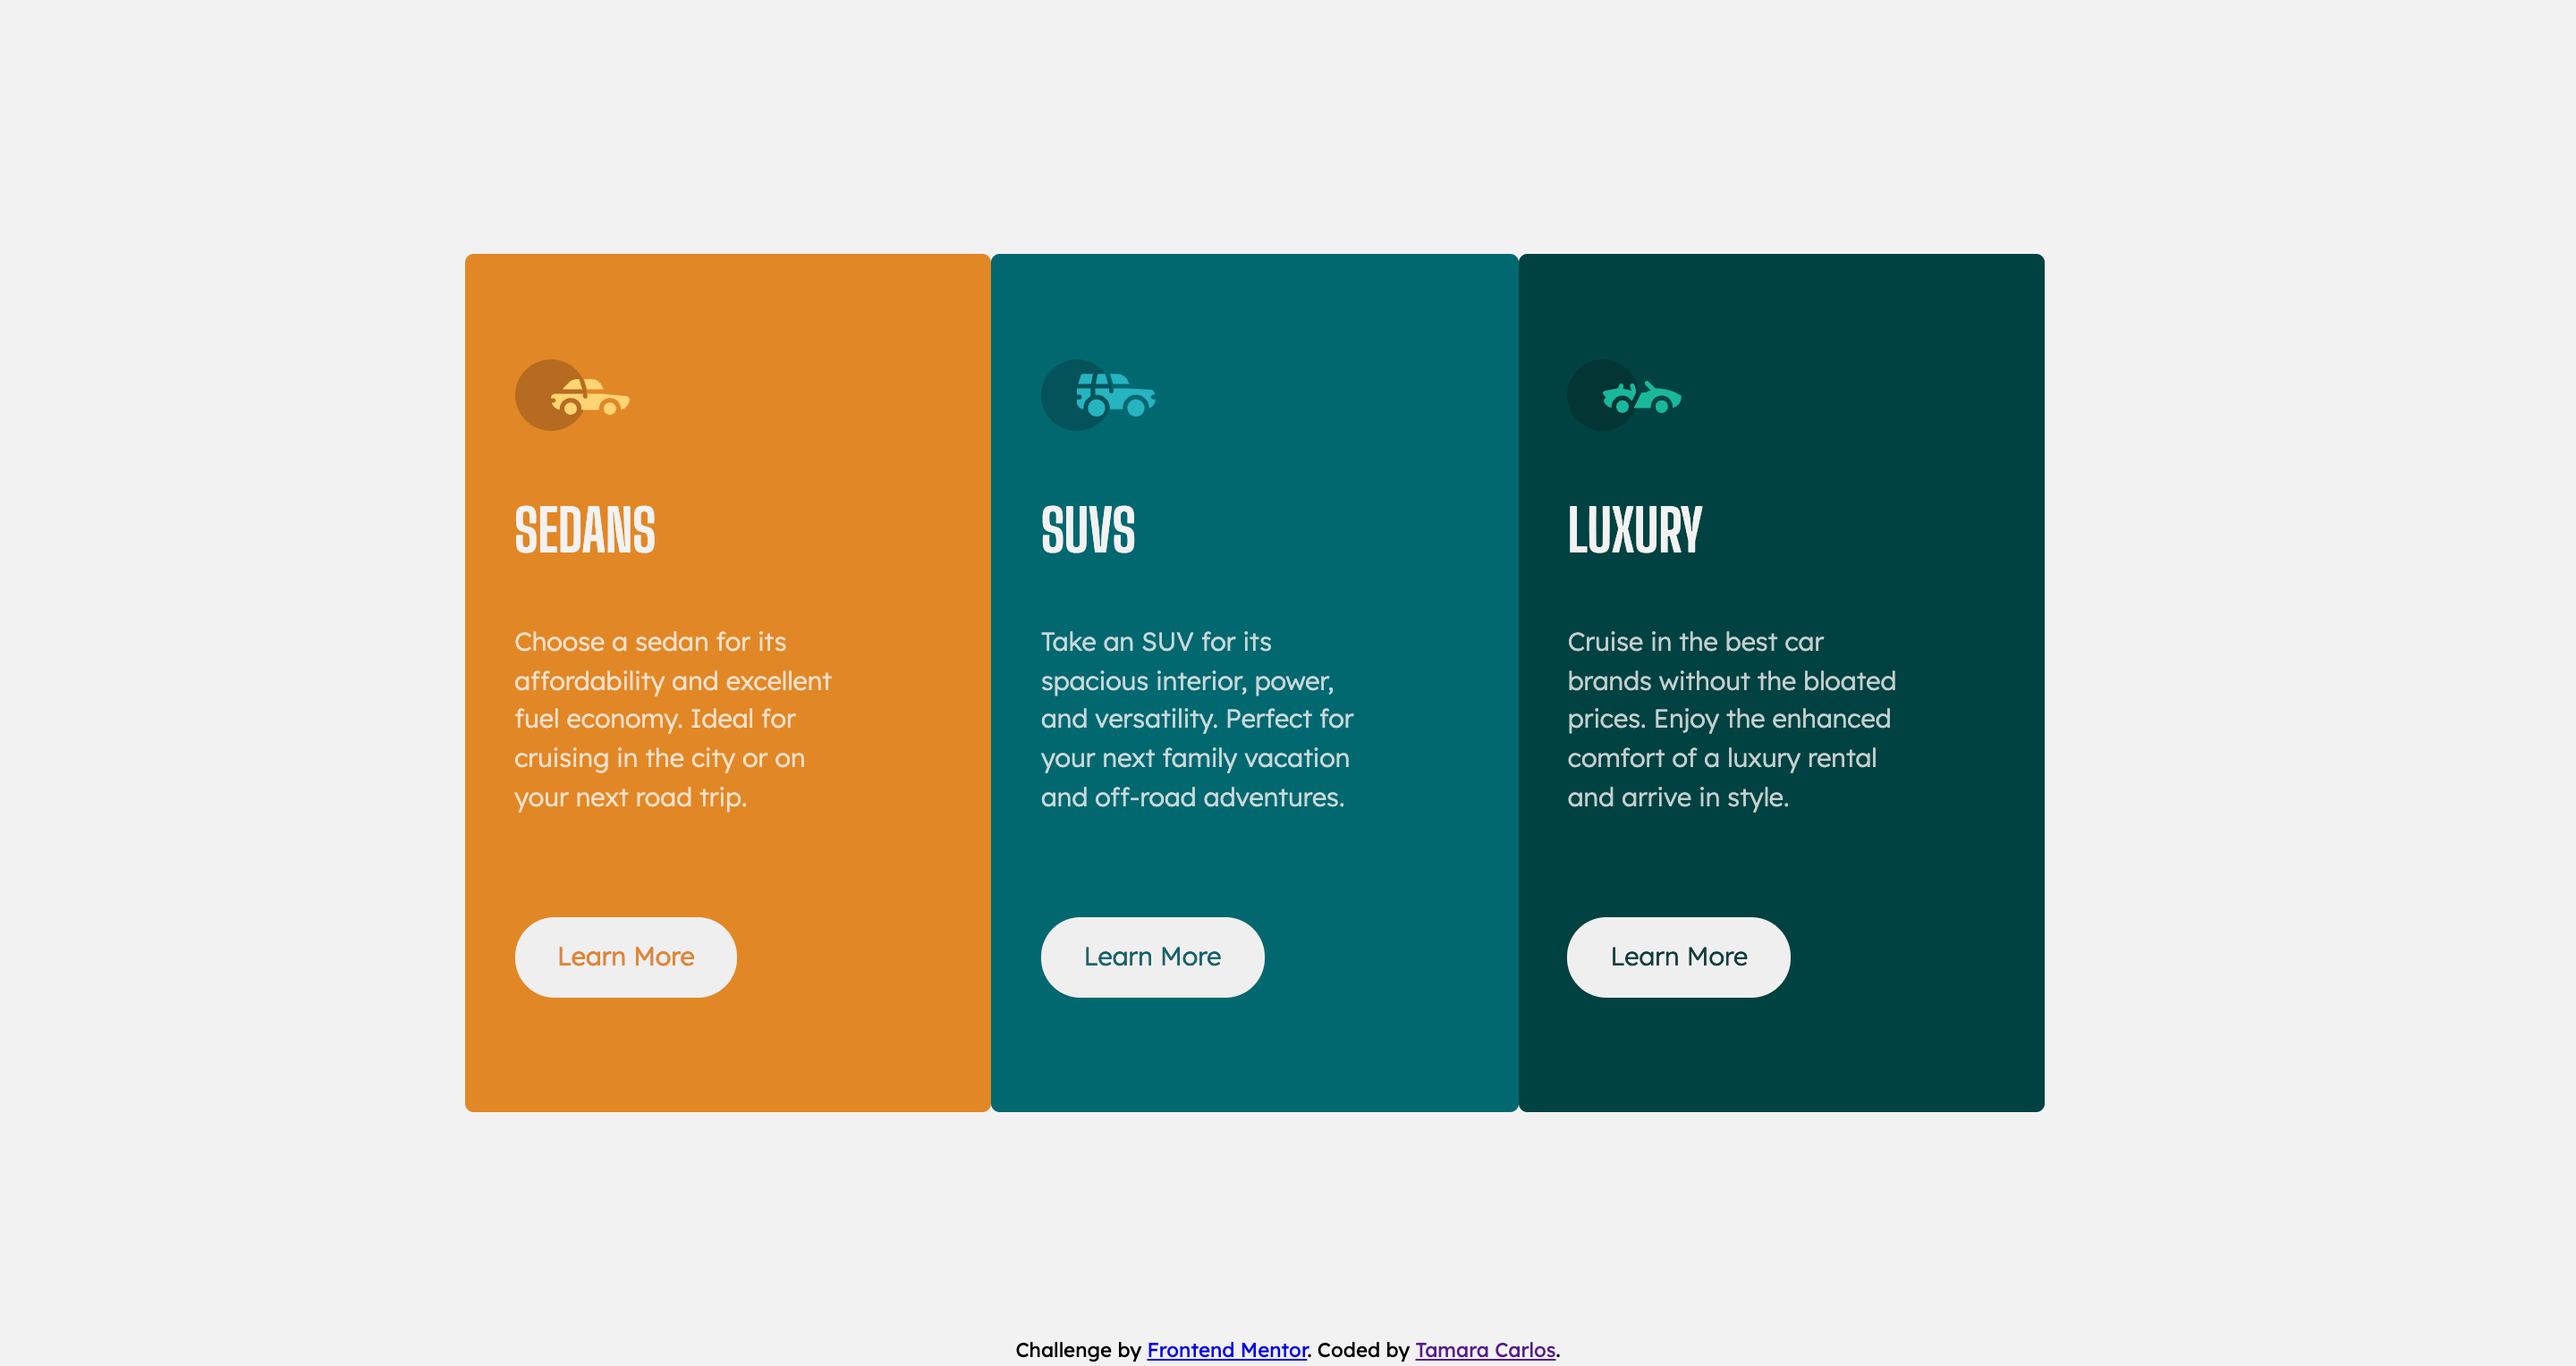
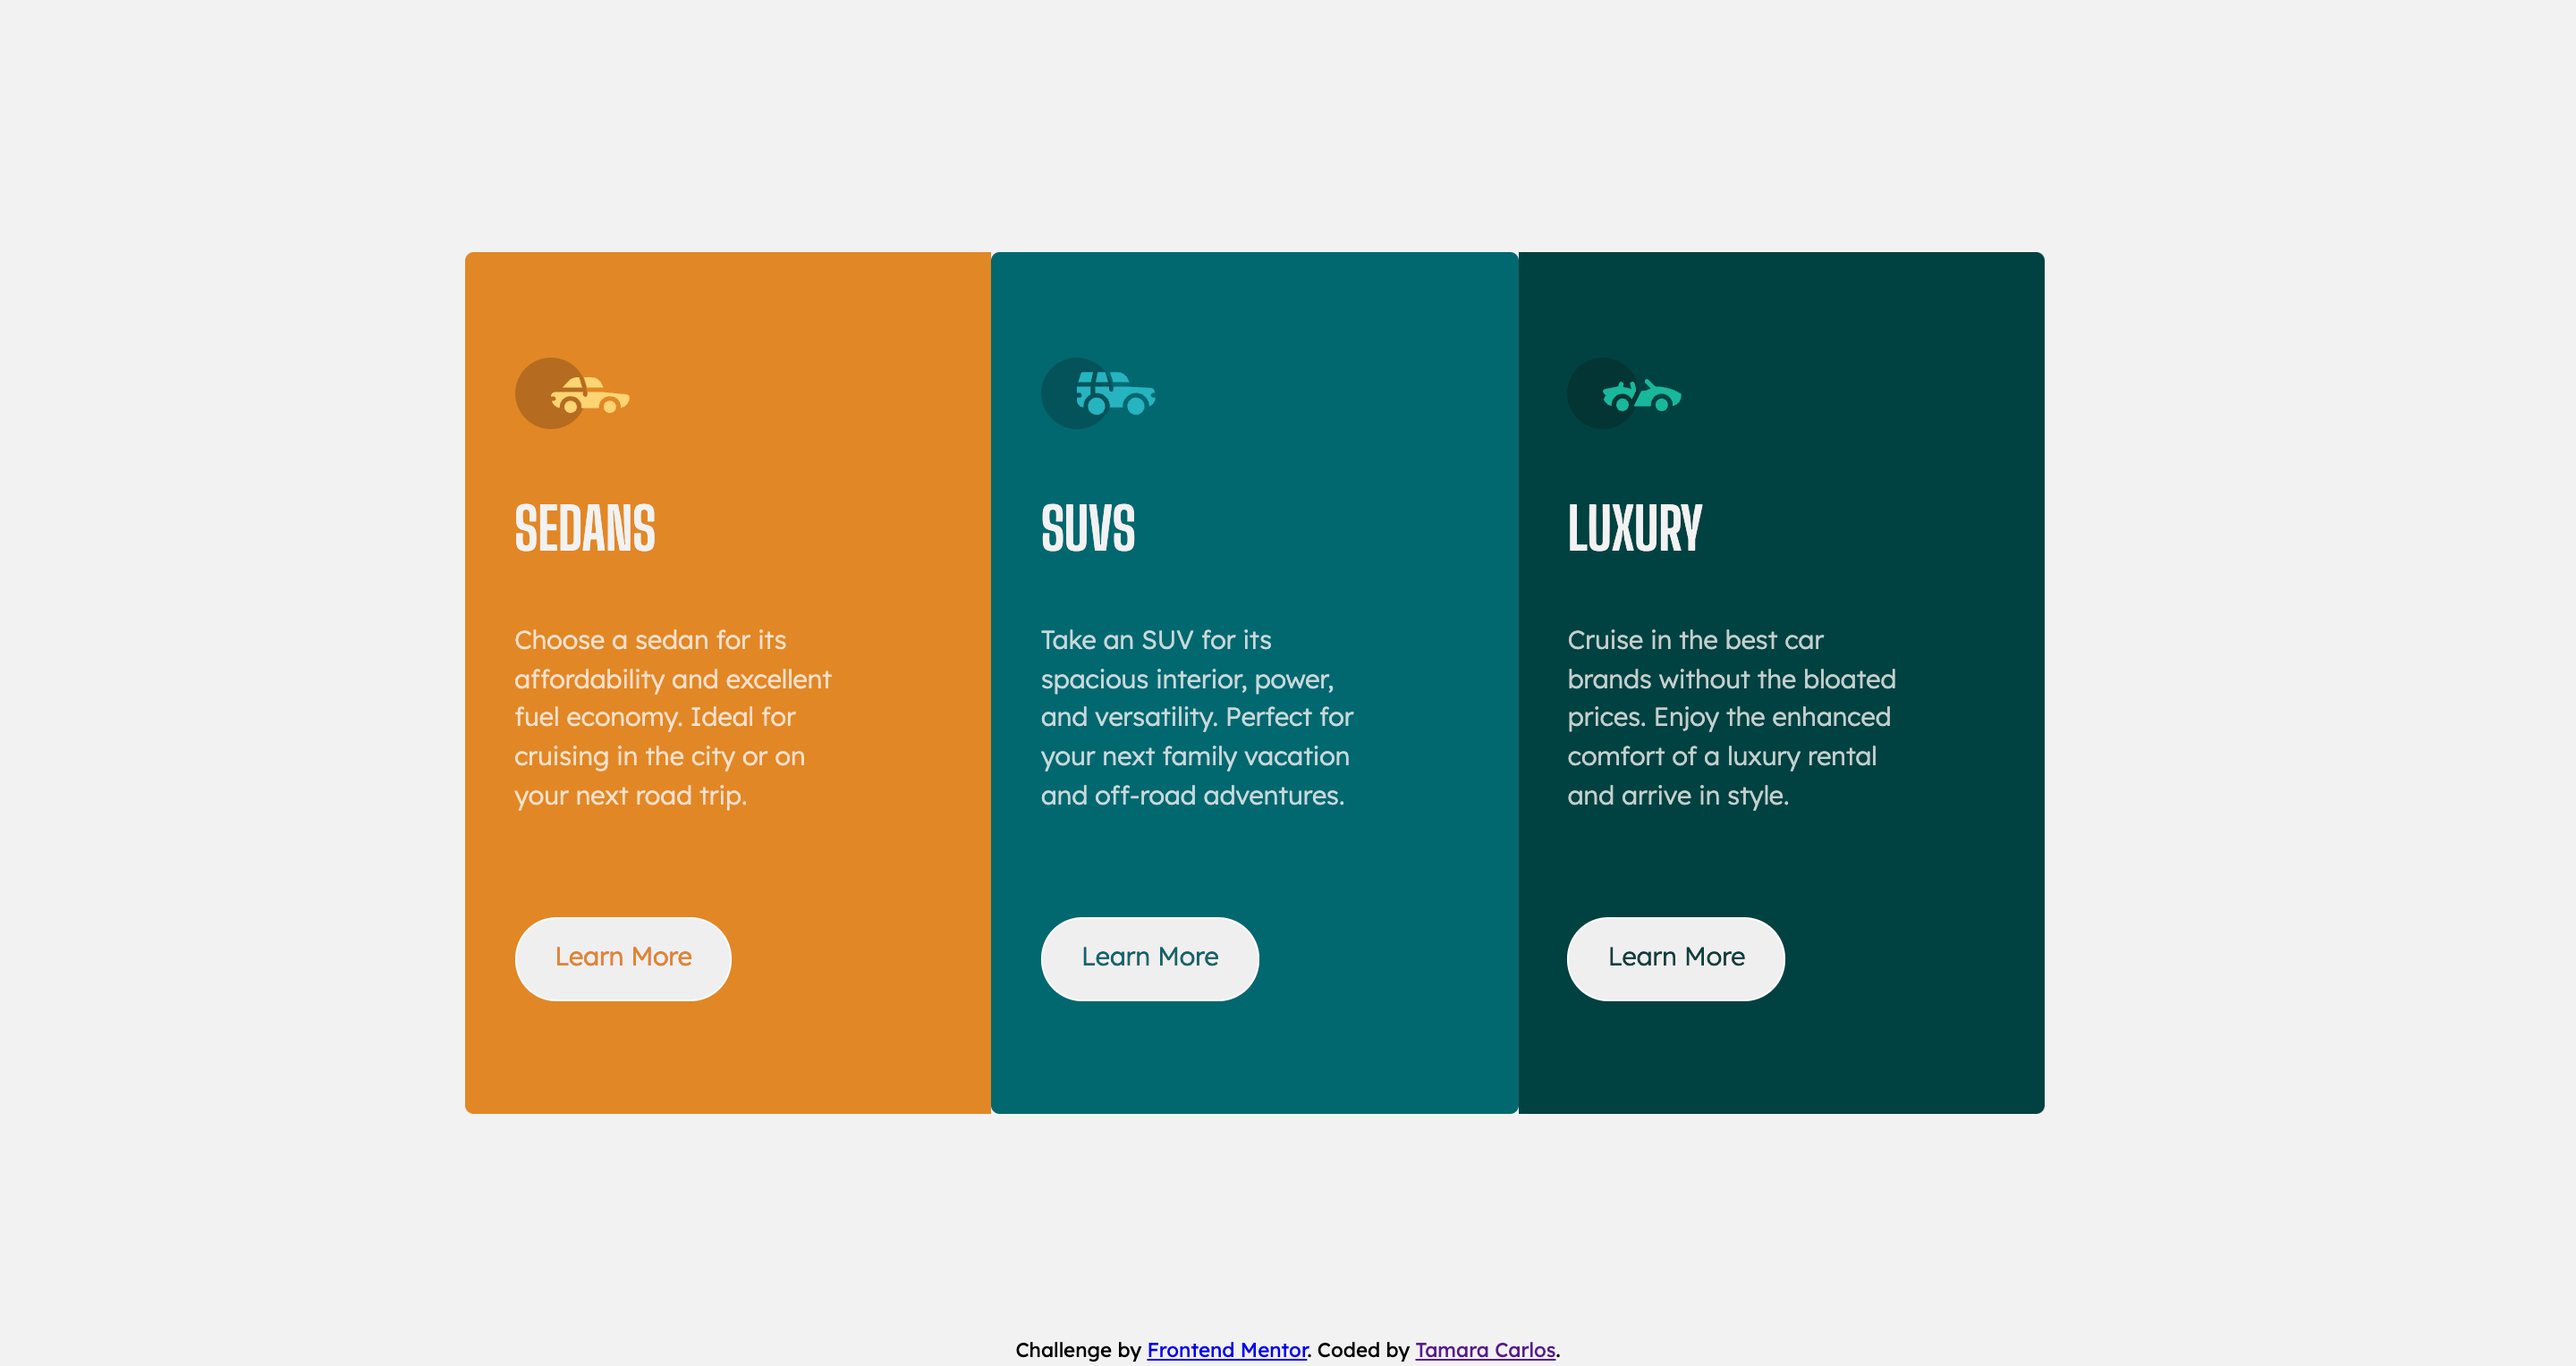
Fix responsive

diff --git a/3-column-preview-card-component/style.css b/3-column-preview-card-component/style.css
@@ -1,6 +1,7 @@
 html {
     box-sizing: border-box;
     margin: 0;
+    background-color: hsl(0, 0%, 95%);
 }
 
 body {
@@ -8,11 +9,9 @@ body {
     justify-content: center;
     align-items: center;
     min-height: 100vh;
-    background-color: hsl(0, 0%, 95%);
 }
 
 .car-type {
-    max-height: 31.25rem;
     max-width: 57.5rem;
     width: 100%;
     display: flex;
@@ -46,11 +45,12 @@ body {
     mix-blend-mode: lighten;
     border: none;
     border-radius: 5rem;
+    border: 0.05rem solid white;
     font-family: "Lexend Deca", sans-serif;
     font-weight: 300;
     font-size: 0.9rem;
     display: inline-block;
-    padding: 5% 10%;
+    padding: 5% 9%;
     margin: 2rem 0;
 }
 
@@ -63,7 +63,19 @@ body {
 .car-type--sedan, .car-type--suv, .car-type--luxury {
     width: 32%;
     padding: 3%;
+}
+
+.car-type--sedan {
+    border-radius: 0.3rem 0rem 0rem 0.3rem;
+}
+
+
+.car-type--suv {
     border-radius: 0.3rem;
+}
+
+.car-type--luxury {
+    border-radius: 0rem 0.3rem 0.3rem 0rem;;
 }
 
 
@@ -81,22 +93,37 @@ body {
 
 footer {
     position: fixed;
-    left: 0;
     bottom: 0;
     width: 100%;
+    width:100%;
     text-align: center;
     font-family: "Lexend Deca", sans-serif;
     font-size: 0.7rem;
 }
 
 @media only screen and (max-width: 375px){
+
+    body {
+        padding: 5% 0 5% 0;
+    }
     .car-type {
         flex-direction: column;
-        overflow: auto;
     }
     .car-type--sedan, .car-type--suv, .car-type--luxury {
         width: 75%;
         margin: 0 5% 0 12%;
         padding-left: 10%;
+    }
+
+    .car-type--sedan {
+        border-radius: 0.3rem;
+    }
+
+    .car-type--luxury {
+        border-radius: 0rem 0rem 0.3rem 0.3rem;
+    }
+
+    footer {
+        display: none;;
     }
 }

diff --git a/3-column-preview-card-component/index.html b/3-column-preview-card-component/index.html
@@ -43,12 +43,13 @@
         </p>
         <button class="car-button">Learn More</button>
       </div>
+    </div>
   </main>
 </body>
 
 <footer>
   <p>Challenge by <a href="https://www.frontendmentor.io?ref=challenge" target="_blank">Frontend
-      Mentor</a>. Coded by <a href="https://github.com/aramatsolrac" aria-hidden="true">Tamara Carlos</a>.</p>
+      Mentor</a>. Coded by <a href="https://github.com/aramatsolrac">Tamara Carlos</a>.</p>
 </footer>
 
 </html>
